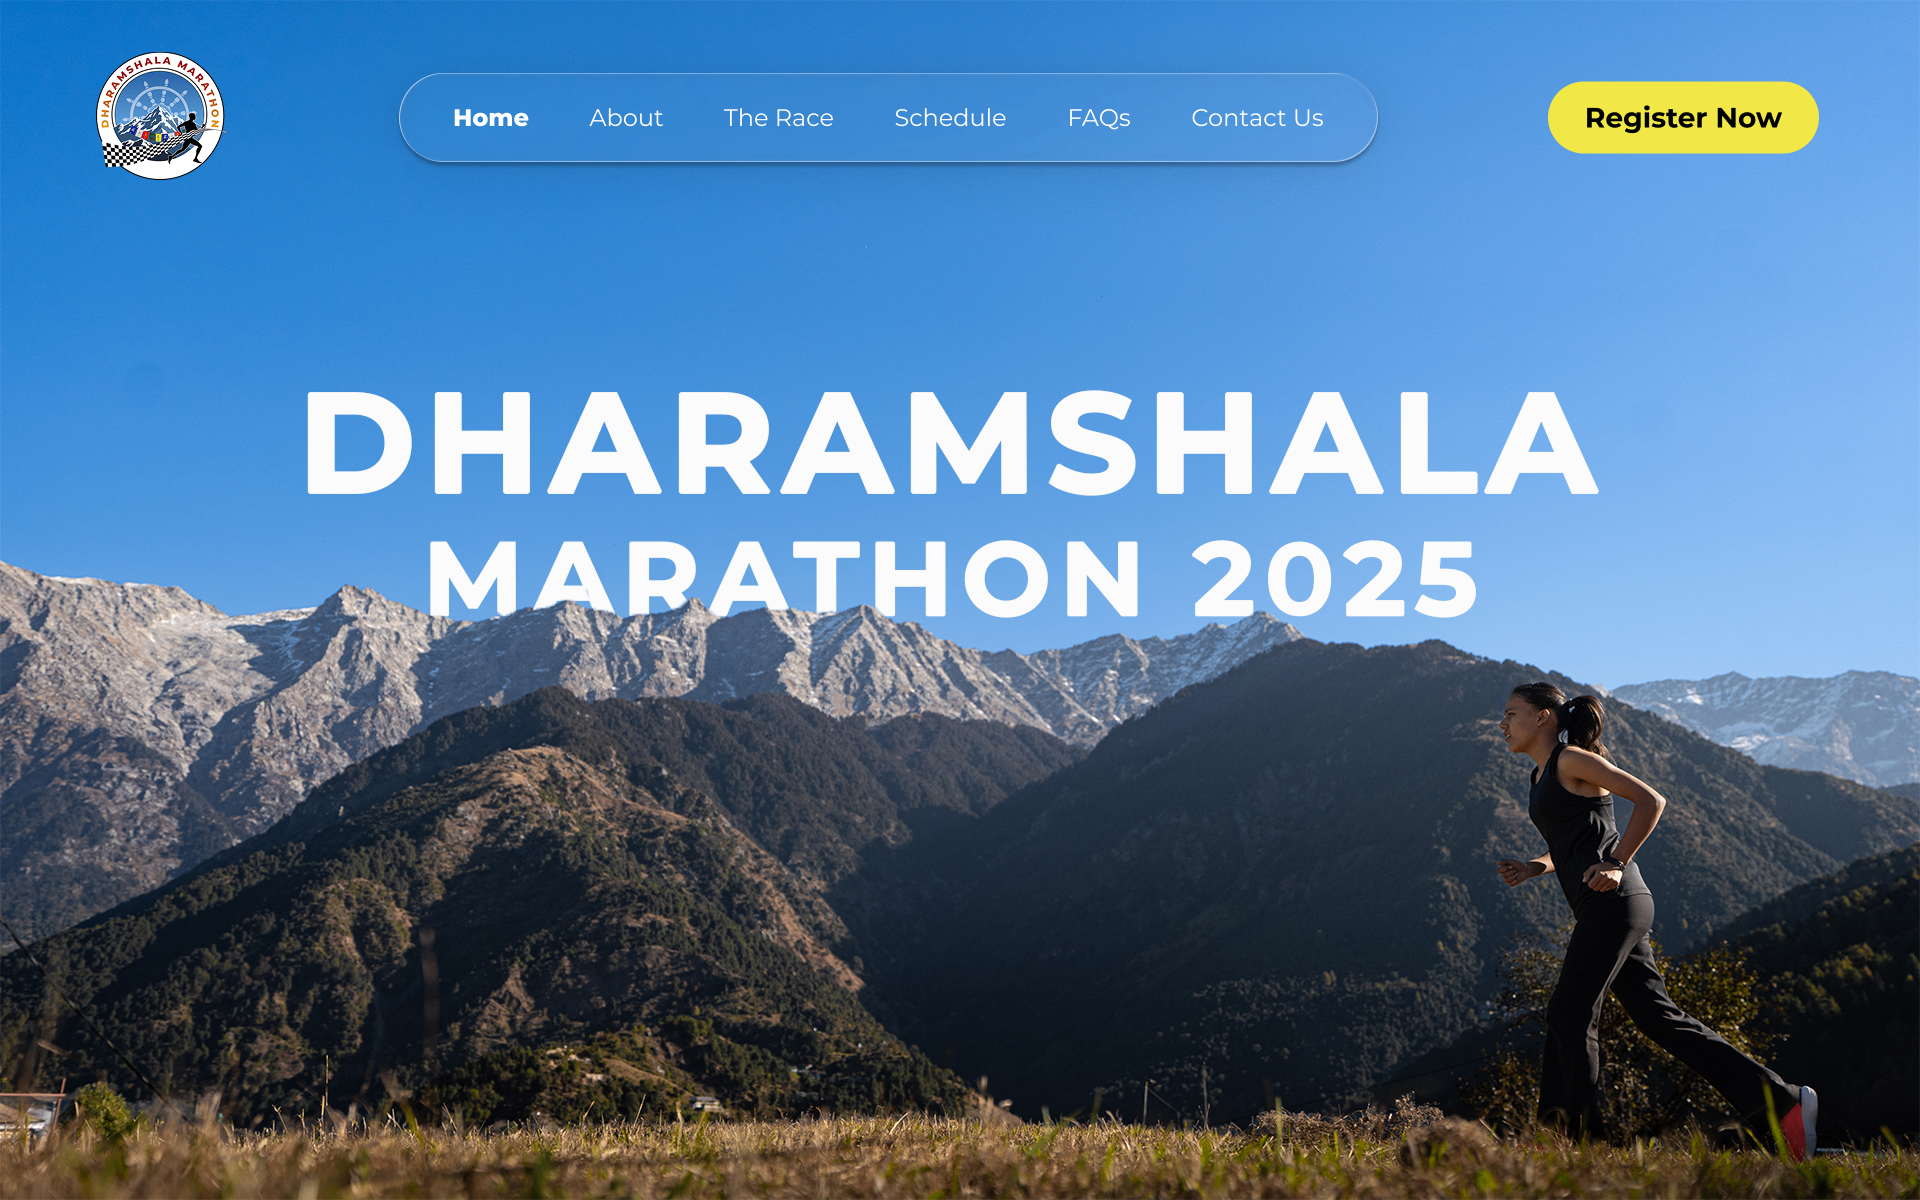
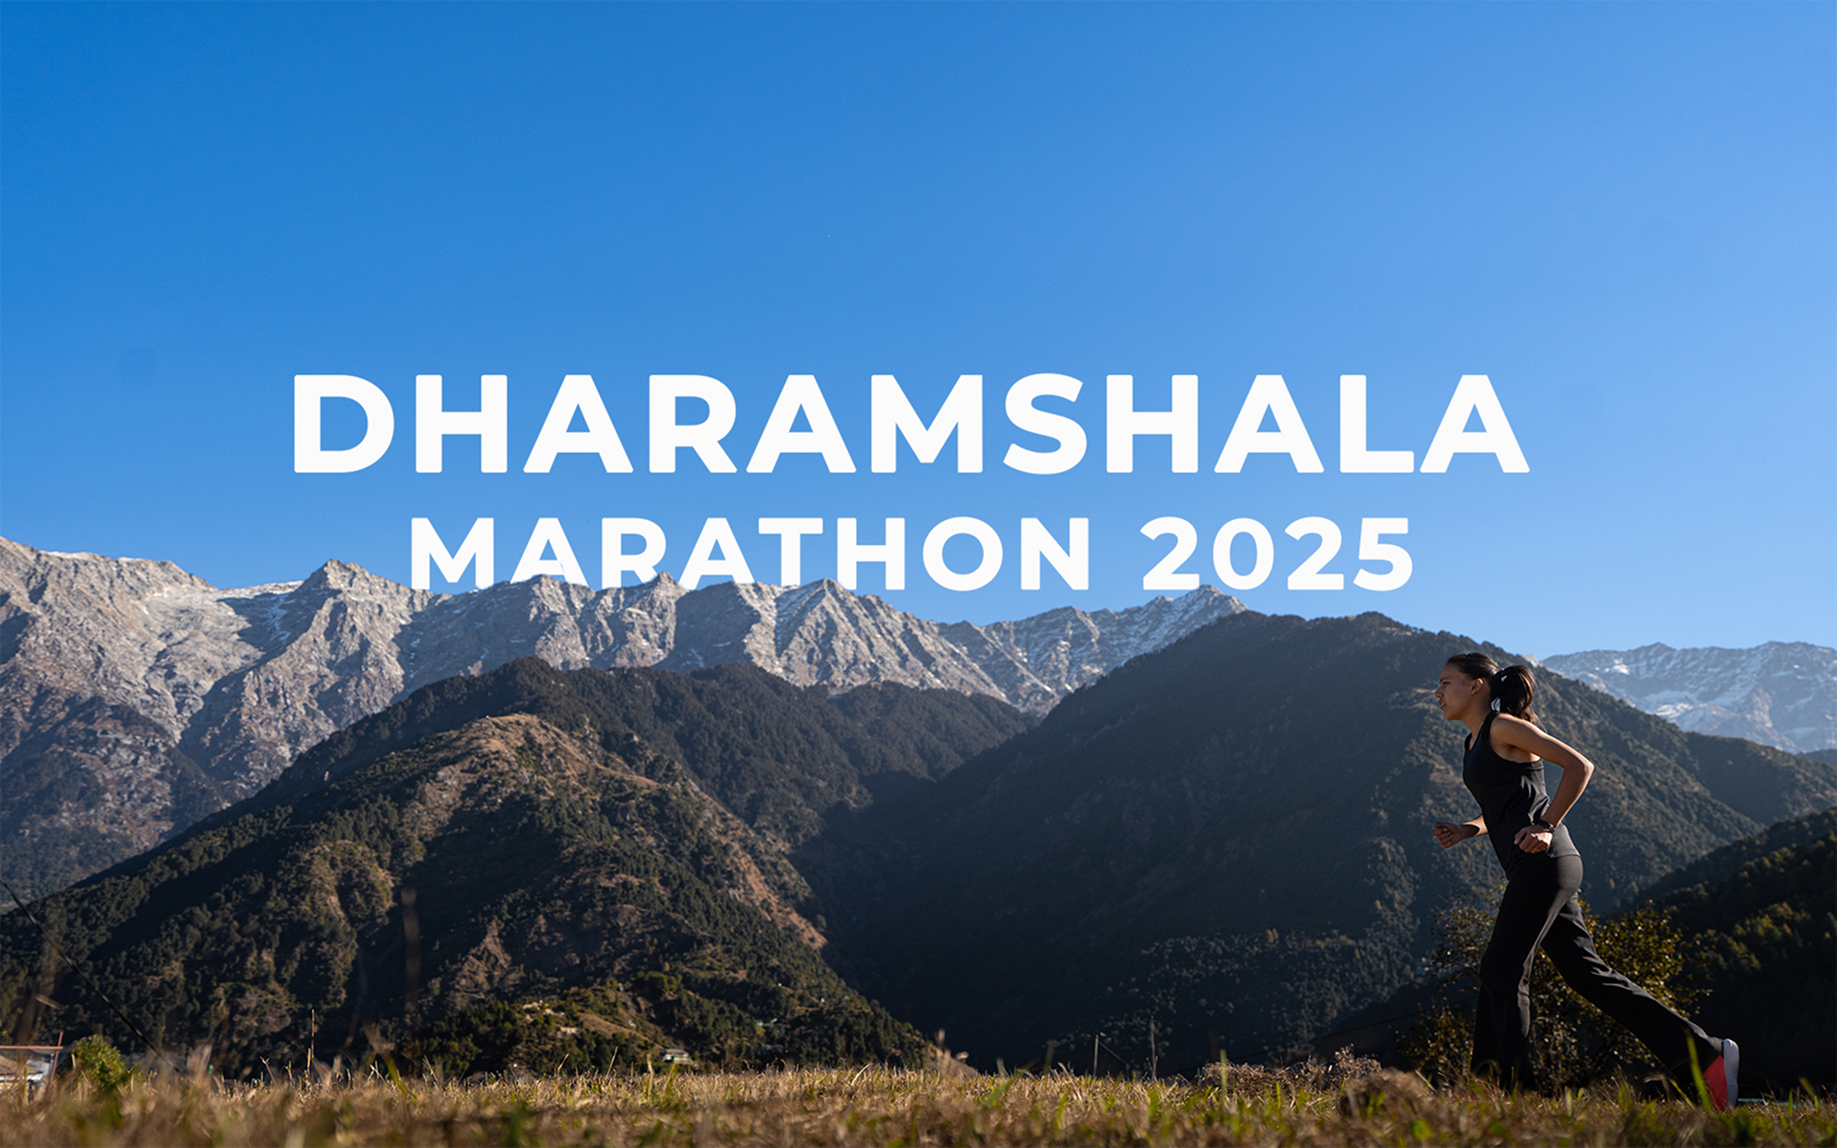
Changes

Changed region(s): [[0.2172, 0.0915, 0.7137, 0.1524], [0.8068, 0.061, 0.9619, 0.1524], [0.031, 0.0305, 0.1241, 0.1524]]

diff --git a/src/components/Hero.tsx b/src/components/Hero.tsx
@@ -1,4 +1,7 @@
 import heroImage from "@/assets/hero-runner.jpg";
+import socialsImage from "@/assets/socials-hero.png";
+import { Button } from "@/components/ui/button";
+import { Link } from "react-router-dom";
 
 const Hero = () => {
   return (
@@ -7,11 +10,26 @@ const Hero = () => {
         className="absolute inset-0 bg-cover bg-center bg-no-repeat"
         style={{ backgroundImage: `url(${heroImage})` }}
       >
-        <div className="absolute inset-0 bg-gradient-to-br from-primary/80 via-primary/60 to-transparent" />
+        <div className="absolute inset-0 bg-gradient-to-br from-black/20 via-transparent to-transparent" />
       </div>
       
-      <div className="relative z-10 flex items-center justify-center min-h-screen px-8">
-        {/* Image already contains text */}
+      <div className="relative z-10 flex flex-col items-center justify-center min-h-screen px-8 text-center">
+        <h1 className="text-6xl md:text-8xl font-bold text-white mb-8 tracking-wider">
+          DHARAMSHALA<br />MARATHON 2025
+        </h1>
+        <p className="text-xl md:text-2xl text-white mb-8 font-medium">
+          A High-Altitude Mountain Road Race in the<br />Shadow of the Dhauladhars
+        </p>
+        <Link to="/register">
+          <Button className="bg-white/20 backdrop-blur-md hover:bg-white/30 text-white font-bold px-12 py-6 text-lg rounded-full border border-white/30 transition-all">
+            Be Part of the Adventure
+          </Button>
+        </Link>
+      </div>
+
+      {/* Social Media Icons - Bottom Left */}
+      <div className="absolute bottom-8 left-8 z-10">
+        <img src={socialsImage} alt="Social Media" className="w-12 h-auto opacity-80 hover:opacity-100 transition-opacity" />
       </div>
 
       <div className="absolute bottom-8 left-1/2 -translate-x-1/2 animate-bounce">
